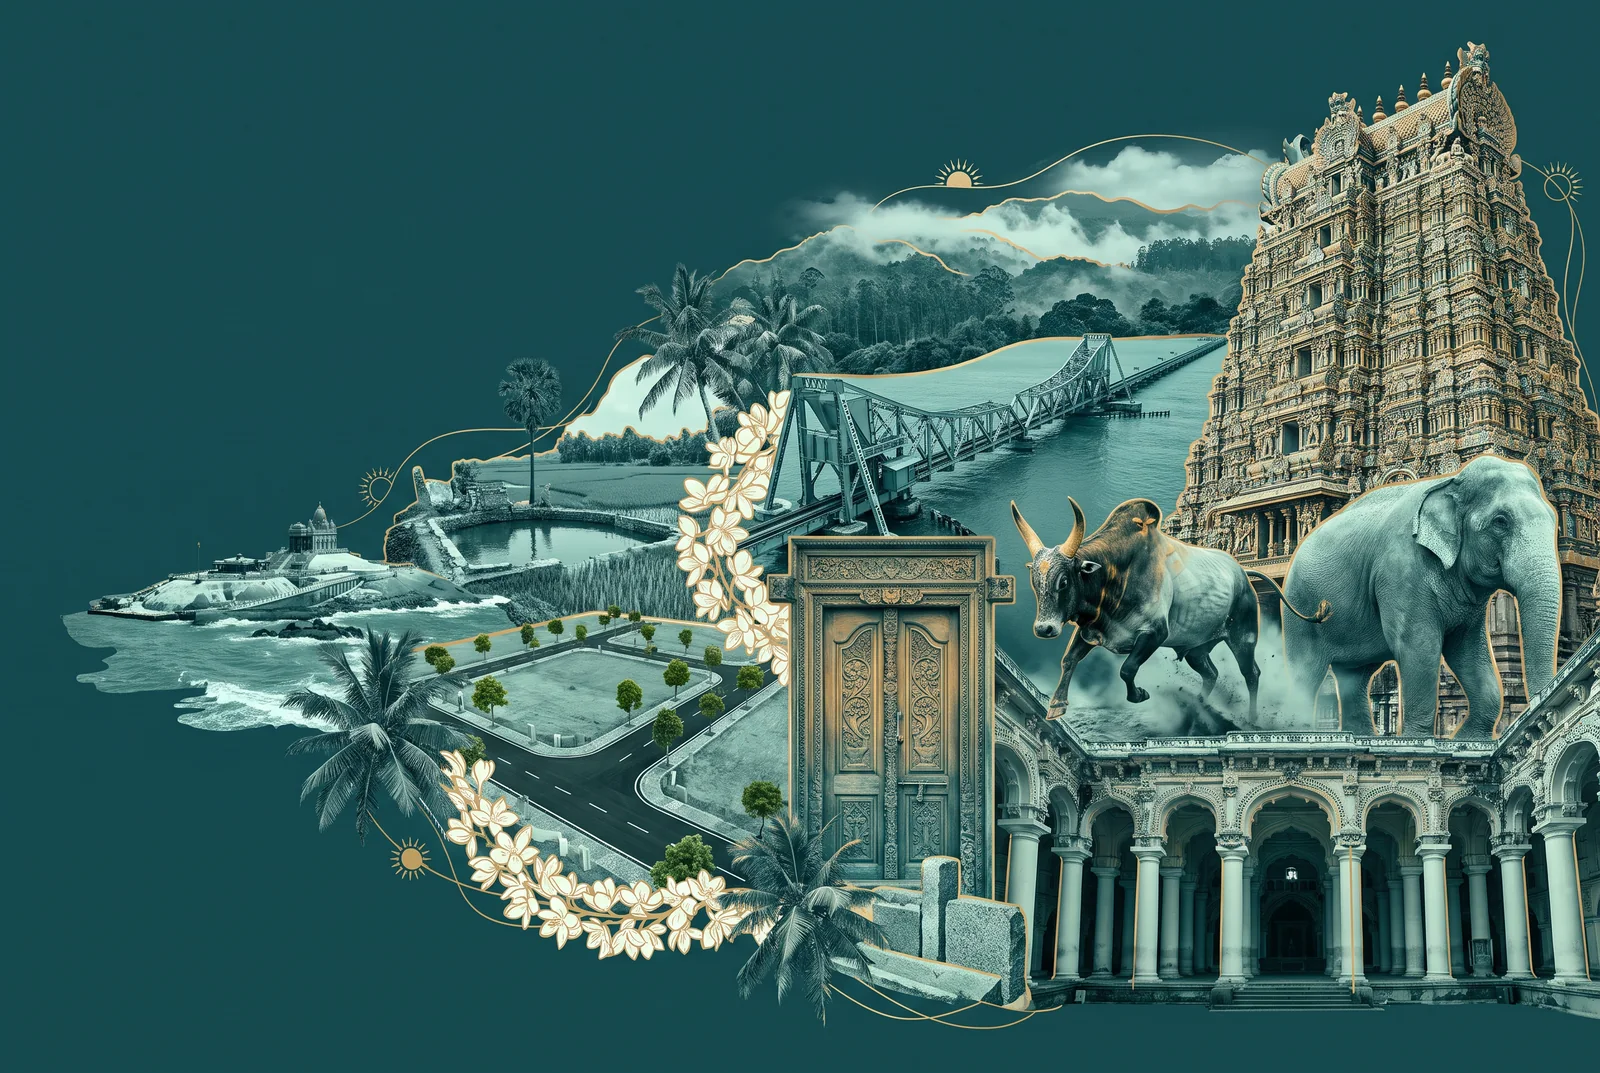
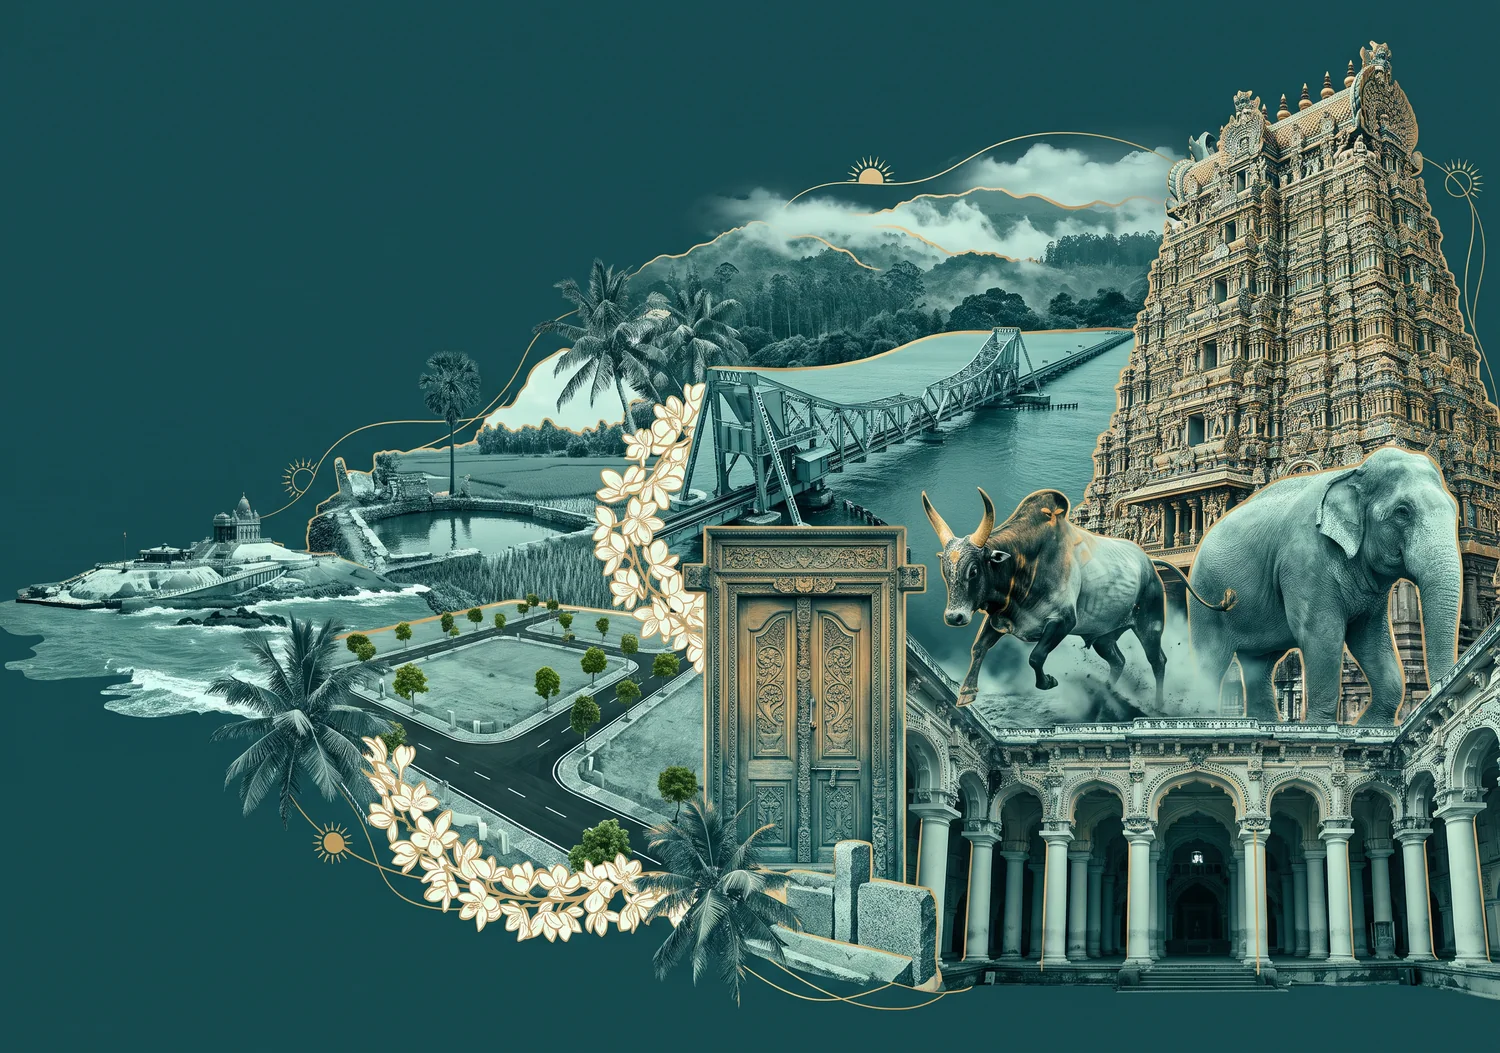
projects: collage reaches the copy, soft top/bottom ends; poster corners rounded; button set in MADURAI's font and size

diff --git a/mrc.css b/mrc.css
@@ -1004,18 +1004,21 @@ html.modal-open { overflow: hidden; }
 .pagehead.with-art .crumb { color: rgba(255,255,255,.6); letter-spacing: .22em; font-size: .78rem; text-transform: uppercase; }
 .pagehead.with-art .crumb a { color: rgba(255,255,255,.6); }
 .pagehead.with-art .rule { background: var(--gold); }
-.south-art { position: absolute; top: 0; bottom: 0; right: 0; width: 56%; z-index: 1; transform-style: preserve-3d; will-change: transform; cursor: grab; touch-action: pan-y; user-select: none; -webkit-user-drag: none; animation: artIn 1.4s var(--ease) .2s both;
-  -webkit-mask-image: linear-gradient(to right, transparent 0, #000 18%); mask-image: linear-gradient(to right, transparent 0, #000 18%); }   /* melts into the copy side, like the home window */
+.south-art { position: absolute; top: 0; bottom: 0; right: 0; width: 60%; z-index: 1; transform-style: preserve-3d; will-change: transform; cursor: grab; touch-action: pan-y; user-select: none; -webkit-user-drag: none; animation: artIn 1.4s var(--ease) .2s both;
+  /* melts into the copy on the left and dissolves softly at the top and bottom, so the mass has no hard ends */
+  -webkit-mask-image: linear-gradient(to right, transparent 0, #000 16%), linear-gradient(to bottom, transparent 0, #000 12%, #000 88%, transparent 100%);
+  -webkit-mask-composite: source-in; mask-image: linear-gradient(to right, transparent 0, #000 16%), linear-gradient(to bottom, transparent 0, #000 12%, #000 88%, transparent 100%); mask-composite: intersect; }
 .south-art:active { cursor: grabbing; }
-.south-art img { position: absolute; top: -6%; right: -6%; height: 112%; width: auto; max-width: none; -webkit-user-drag: none; pointer-events: none; }   /* a little larger than the box so the tilt never shows an edge */
+.south-art img { position: absolute; top: -12%; right: -4%; height: 124%; width: auto; max-width: none; -webkit-user-drag: none; pointer-events: none; }   /* a little larger than the box so the tilt never shows an edge */
 @keyframes artIn { from { opacity: 0; transform: translateX(40px) scale(1.04); } to { opacity: 1; transform: none; } }
 /* the Madurai card: the project poster as a framed print — white mount, MADURAI and the button set into the mount beneath it */
 .city-print { width: min(100%, 560px); margin: 2.6rem auto 0; padding: clamp(1.1rem, 2.2vw, 1.8rem); background: #fff; border: 1px solid var(--border); border-radius: var(--r); box-shadow: var(--shadow-md); }
 .city-print > a { display: block; }
-.city-print img { display: block; width: 100%; height: auto; transition: transform .5s var(--ease); }
+.city-print img { display: block; width: 100%; height: auto; border-radius: var(--r-sm); transition: transform .5s var(--ease); }
 .city-print > a:hover img { transform: scale(1.01); }
 .city-print figcaption { display: flex; align-items: center; justify-content: space-between; gap: 1rem; padding: 1.1rem .4rem .2rem; }
 .city-print .place { font-family: var(--font-d); font-weight: 600; font-size: 1.05rem; letter-spacing: .34em; text-transform: uppercase; color: var(--gold); padding-left: .34em; }
+.city-print figcaption .btn { font-family: var(--font-d); font-weight: 600; font-size: 1.05rem; letter-spacing: .22em; text-transform: uppercase; padding: .8rem 1.5rem; }   /* the button speaks in the same voice as MADURAI */
 .lm { list-style: none; margin: 0; padding: 0; }
 .lm li { display: flex; justify-content: space-between; gap: 1rem; padding: .65rem 0; font-size: .92rem; }
 .lm li b { color: var(--gold); font-weight: 600; white-space: nowrap; }

diff --git a/index.html b/index.html
@@ -12,7 +12,7 @@
 <link rel="preconnect" href="https://fonts.googleapis.com">
 <link rel="preconnect" href="https://fonts.gstatic.com" crossorigin>
 <link rel="stylesheet" href="https://fonts.googleapis.com/css2?family=Instrument+Sans:wght@400;500;600;700&family=Inter:wght@400;500;600&family=Cinzel:wght@600;700&display=swap">
-<link rel="stylesheet" href="mrc.css?v=1789761627">
+<link rel="stylesheet" href="mrc.css?v=1789761916">
 <link rel="stylesheet" href="https://cdnjs.cloudflare.com/ajax/libs/leaflet/1.9.4/leaflet.min.css">
 </head>
 <body>

diff --git a/project-anantaa.html b/project-anantaa.html
@@ -12,7 +12,7 @@
 <link rel="preconnect" href="https://fonts.googleapis.com">
 <link rel="preconnect" href="https://fonts.gstatic.com" crossorigin>
 <link rel="stylesheet" href="https://fonts.googleapis.com/css2?family=Instrument+Sans:wght@400;500;600;700&family=Inter:wght@400;500;600&family=Cinzel:wght@600;700&display=swap">
-<link rel="stylesheet" href="mrc.css?v=1789761627">
+<link rel="stylesheet" href="mrc.css?v=1789761916">
 <link rel="stylesheet" href="https://cdnjs.cloudflare.com/ajax/libs/leaflet/1.9.4/leaflet.min.css">
 </head>
 <body>

diff --git a/project.html b/project.html
@@ -12,7 +12,7 @@
 <link rel="preconnect" href="https://fonts.googleapis.com">
 <link rel="preconnect" href="https://fonts.gstatic.com" crossorigin>
 <link rel="stylesheet" href="https://fonts.googleapis.com/css2?family=Instrument+Sans:wght@400;500;600;700&family=Inter:wght@400;500;600&family=Cinzel:wght@600;700&display=swap">
-<link rel="stylesheet" href="mrc.css?v=1789761627">
+<link rel="stylesheet" href="mrc.css?v=1789761916">
 <link rel="stylesheet" href="https://cdnjs.cloudflare.com/ajax/libs/leaflet/1.9.4/leaflet.min.css">
 </head>
 <body>

diff --git a/projects.html b/projects.html
@@ -12,7 +12,7 @@
 <link rel="preconnect" href="https://fonts.googleapis.com">
 <link rel="preconnect" href="https://fonts.gstatic.com" crossorigin>
 <link rel="stylesheet" href="https://fonts.googleapis.com/css2?family=Instrument+Sans:wght@400;500;600;700&family=Inter:wght@400;500;600&family=Cinzel:wght@600;700&display=swap">
-<link rel="stylesheet" href="mrc.css?v=1789761627">
+<link rel="stylesheet" href="mrc.css?v=1789761916">
 <link rel="stylesheet" href="https://cdnjs.cloudflare.com/ajax/libs/leaflet/1.9.4/leaflet.min.css">
 </head>
 <body>

diff --git a/about.html b/about.html
@@ -12,7 +12,7 @@
 <link rel="preconnect" href="https://fonts.googleapis.com">
 <link rel="preconnect" href="https://fonts.gstatic.com" crossorigin>
 <link rel="stylesheet" href="https://fonts.googleapis.com/css2?family=Instrument+Sans:wght@400;500;600;700&family=Inter:wght@400;500;600&family=Cinzel:wght@600;700&display=swap">
-<link rel="stylesheet" href="mrc.css?v=1789761627">
+<link rel="stylesheet" href="mrc.css?v=1789761916">
 </head>
 <body>
 <button class="promo" type="button" data-enquire aria-label="Book a free site visit">

diff --git a/approach.html b/approach.html
@@ -12,7 +12,7 @@
 <link rel="preconnect" href="https://fonts.googleapis.com">
 <link rel="preconnect" href="https://fonts.gstatic.com" crossorigin>
 <link rel="stylesheet" href="https://fonts.googleapis.com/css2?family=Instrument+Sans:wght@400;500;600;700&family=Inter:wght@400;500;600&family=Cinzel:wght@600;700&display=swap">
-<link rel="stylesheet" href="mrc.css?v=1789761627">
+<link rel="stylesheet" href="mrc.css?v=1789761916">
 </head>
 <body>
 <button class="promo" type="button" data-enquire aria-label="Book a free site visit">

diff --git a/channel-partners.html b/channel-partners.html
@@ -12,7 +12,7 @@
 <link rel="preconnect" href="https://fonts.googleapis.com">
 <link rel="preconnect" href="https://fonts.gstatic.com" crossorigin>
 <link rel="stylesheet" href="https://fonts.googleapis.com/css2?family=Instrument+Sans:wght@400;500;600;700&family=Inter:wght@400;500;600&family=Cinzel:wght@600;700&display=swap">
-<link rel="stylesheet" href="mrc.css?v=1789761627">
+<link rel="stylesheet" href="mrc.css?v=1789761916">
 </head>
 <body>
 <button class="promo" type="button" data-enquire aria-label="Book a free site visit">

diff --git a/contact.html b/contact.html
@@ -12,7 +12,7 @@
 <link rel="preconnect" href="https://fonts.googleapis.com">
 <link rel="preconnect" href="https://fonts.gstatic.com" crossorigin>
 <link rel="stylesheet" href="https://fonts.googleapis.com/css2?family=Instrument+Sans:wght@400;500;600;700&family=Inter:wght@400;500;600&family=Cinzel:wght@600;700&display=swap">
-<link rel="stylesheet" href="mrc.css?v=1789761627">
+<link rel="stylesheet" href="mrc.css?v=1789761916">
 </head>
 <body>
 <button class="promo" type="button" data-enquire aria-label="Book a free site visit">

diff --git a/insight-dtcp-rera.html b/insight-dtcp-rera.html
@@ -12,7 +12,7 @@
 <link rel="preconnect" href="https://fonts.googleapis.com">
 <link rel="preconnect" href="https://fonts.gstatic.com" crossorigin>
 <link rel="stylesheet" href="https://fonts.googleapis.com/css2?family=Instrument+Sans:wght@400;500;600;700&family=Inter:wght@400;500;600&family=Cinzel:wght@600;700&display=swap">
-<link rel="stylesheet" href="mrc.css?v=1789761627">
+<link rel="stylesheet" href="mrc.css?v=1789761916">
 </head>
 <body>
 <button class="promo" type="button" data-enquire aria-label="Book a free site visit">

diff --git a/insight-master-plan.html b/insight-master-plan.html
@@ -12,7 +12,7 @@
 <link rel="preconnect" href="https://fonts.googleapis.com">
 <link rel="preconnect" href="https://fonts.gstatic.com" crossorigin>
 <link rel="stylesheet" href="https://fonts.googleapis.com/css2?family=Instrument+Sans:wght@400;500;600;700&family=Inter:wght@400;500;600&family=Cinzel:wght@600;700&display=swap">
-<link rel="stylesheet" href="mrc.css?v=1789761627">
+<link rel="stylesheet" href="mrc.css?v=1789761916">
 </head>
 <body>
 <button class="promo" type="button" data-enquire aria-label="Book a free site visit">

diff --git a/insight-verify-before-buying.html b/insight-verify-before-buying.html
@@ -12,7 +12,7 @@
 <link rel="preconnect" href="https://fonts.googleapis.com">
 <link rel="preconnect" href="https://fonts.gstatic.com" crossorigin>
 <link rel="stylesheet" href="https://fonts.googleapis.com/css2?family=Instrument+Sans:wght@400;500;600;700&family=Inter:wght@400;500;600&family=Cinzel:wght@600;700&display=swap">
-<link rel="stylesheet" href="mrc.css?v=1789761627">
+<link rel="stylesheet" href="mrc.css?v=1789761916">
 </head>
 <body>
 <button class="promo" type="button" data-enquire aria-label="Book a free site visit">
